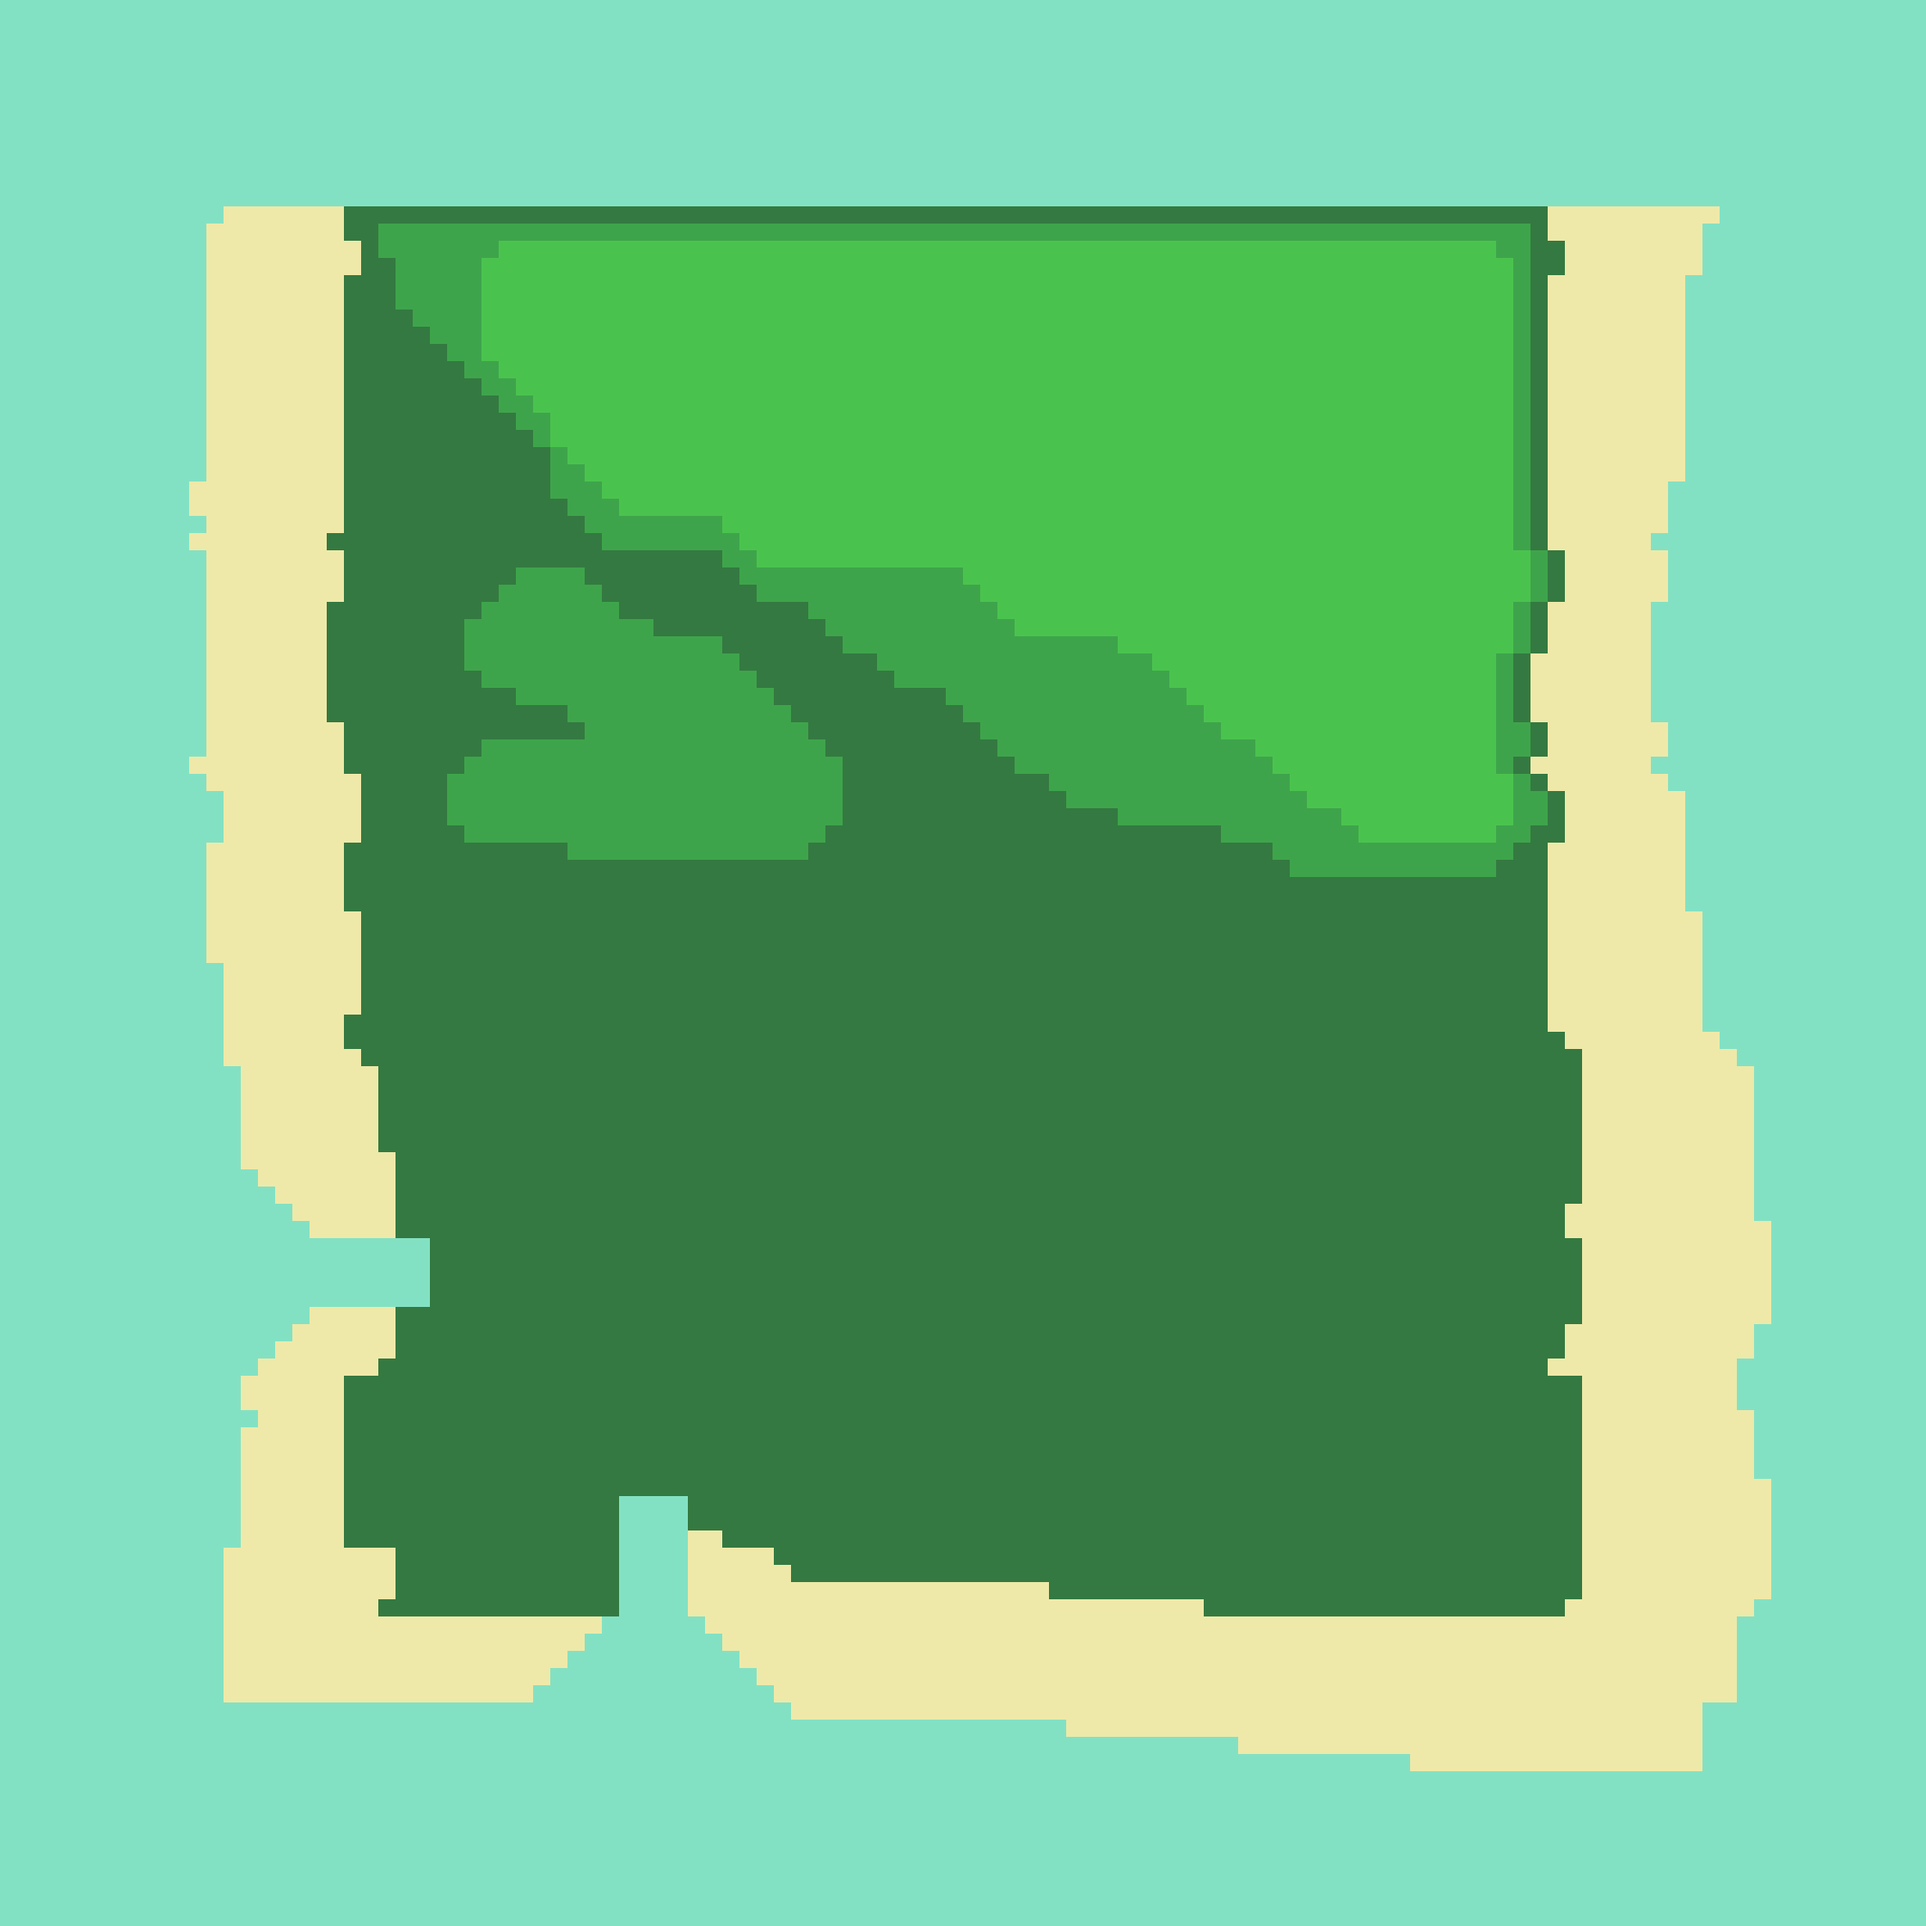
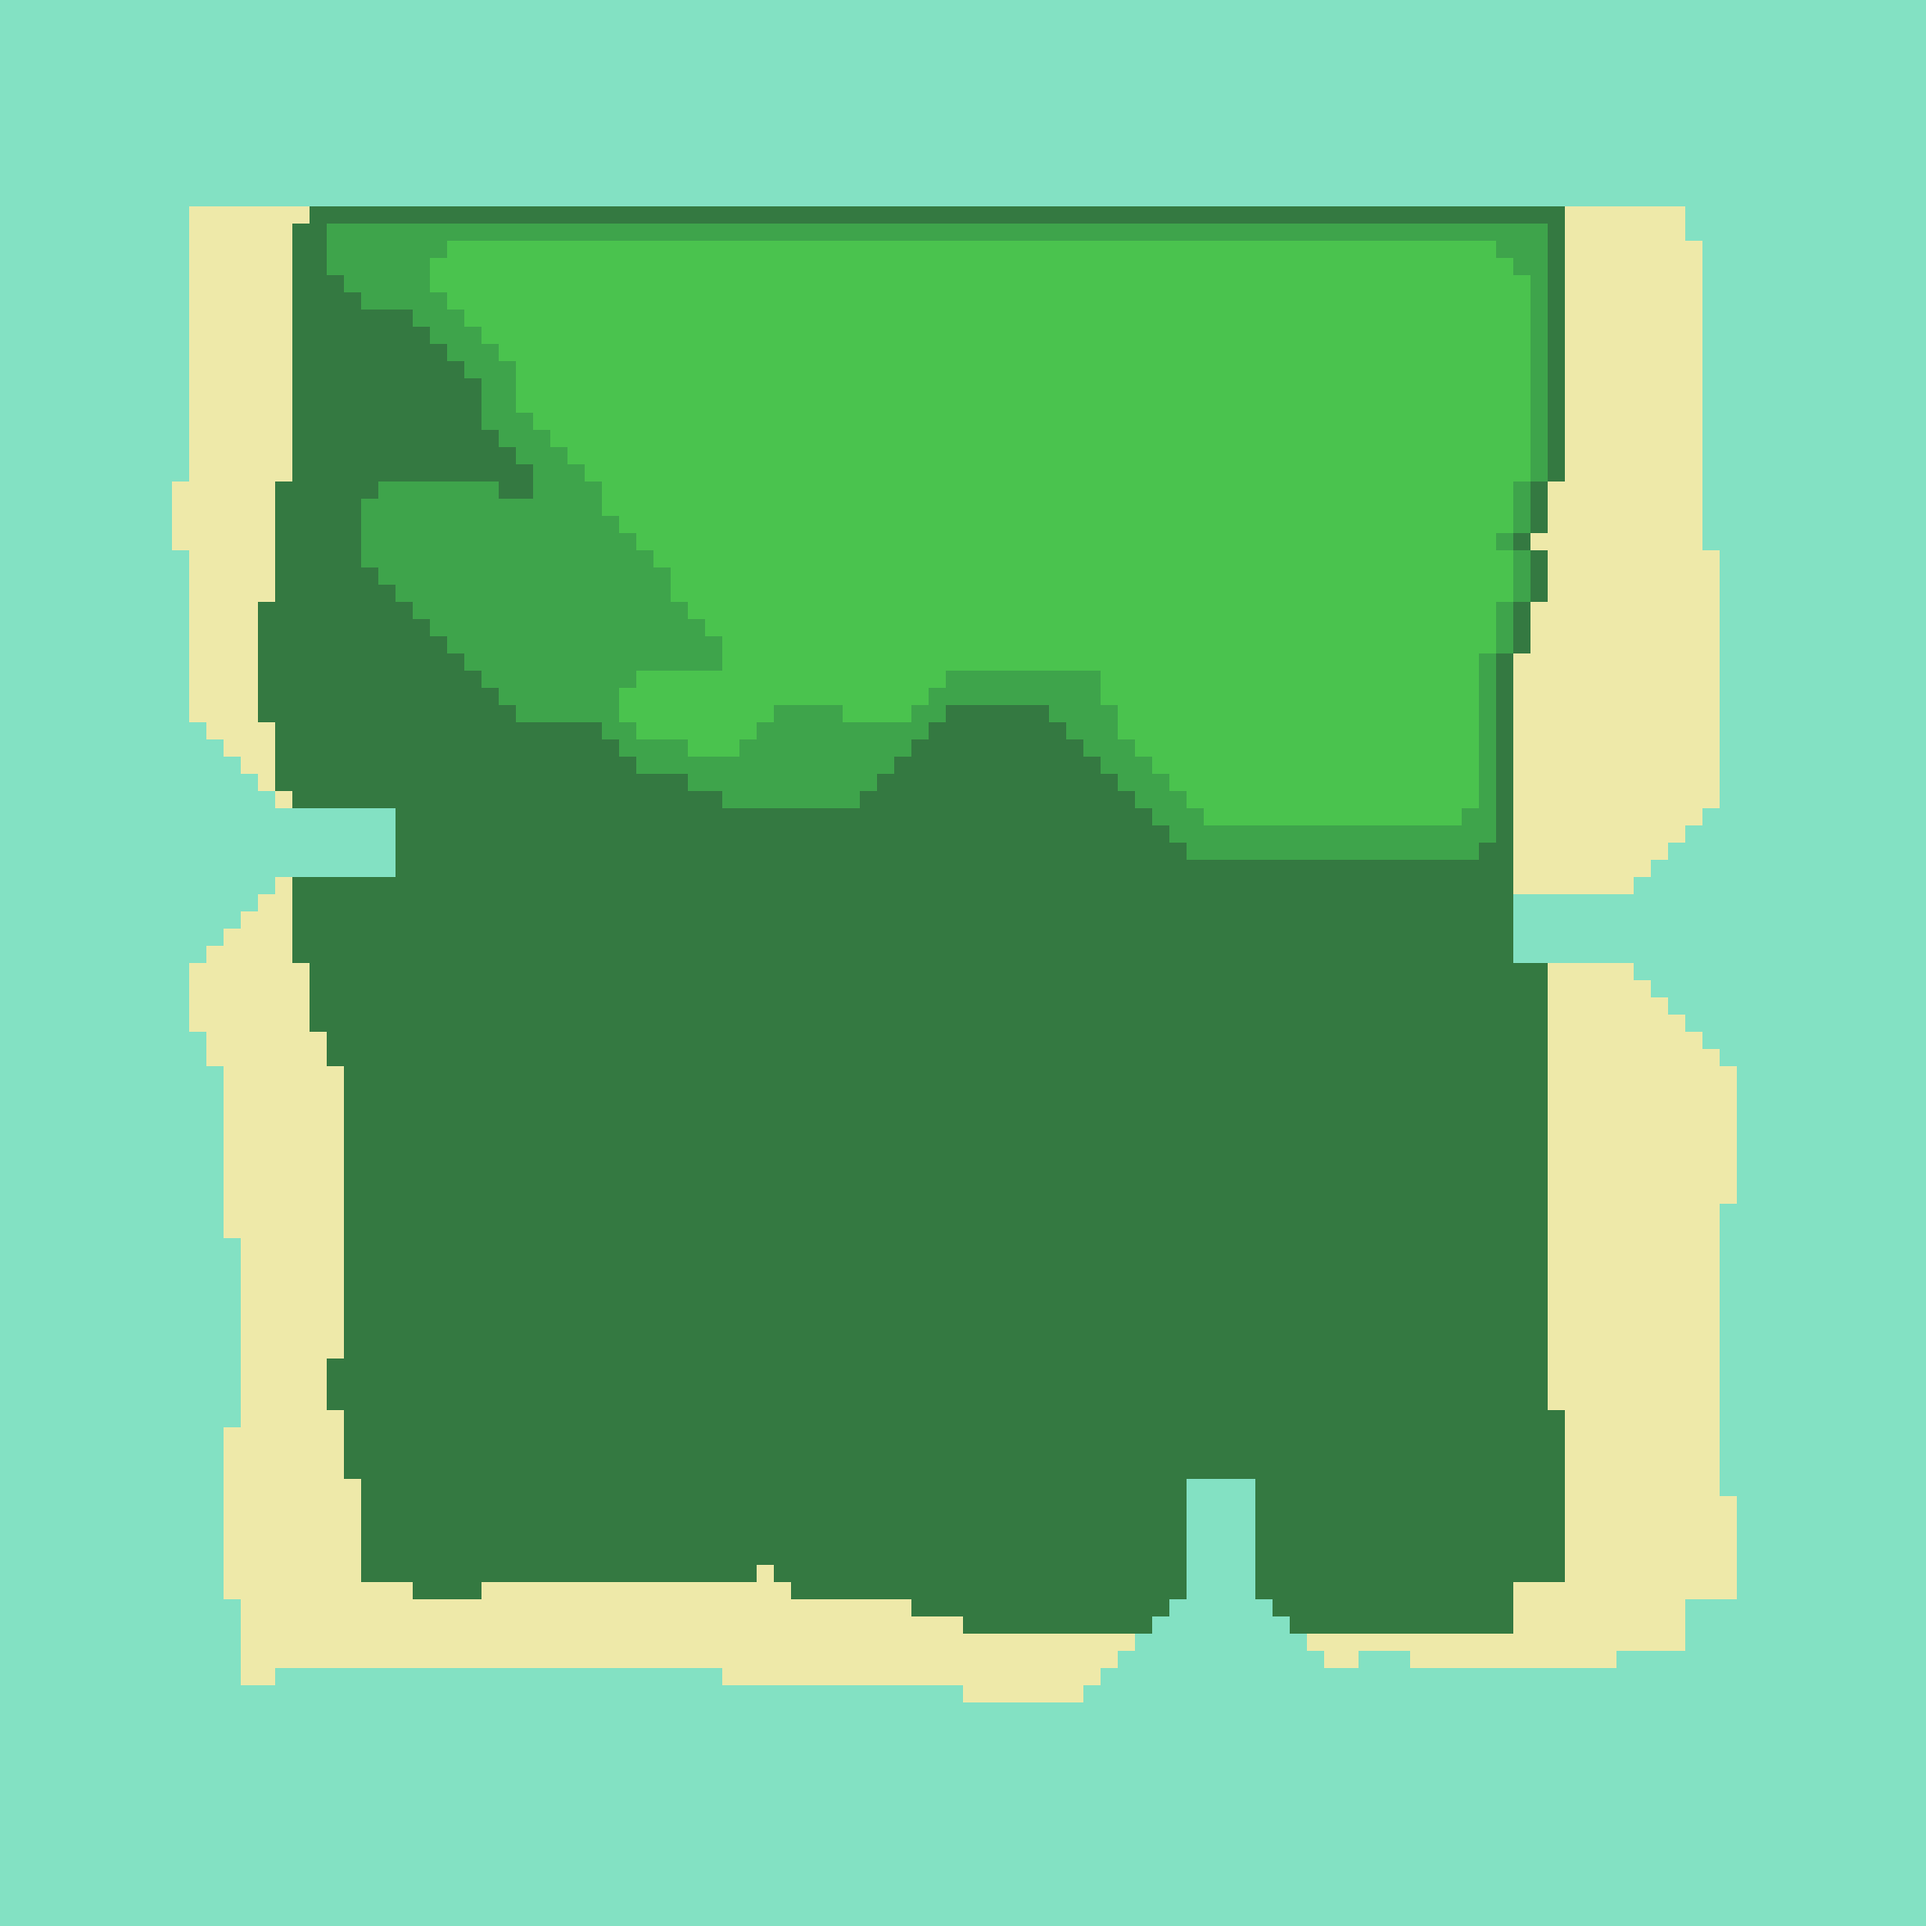
Finished Water mouths random generation

Changed region(s): [[0.0625, 0.0938, 0.9375, 0.9375], [0.8438, 0.0938, 0.9062, 0.4375]]

diff --git a/WaterDrawer.java b/WaterDrawer.java
@@ -19,8 +19,25 @@ public class WaterDrawer {
 		mappy = m;
 	}
 	
-	public TileMap DrawMouthS() {
-		int mouthMiddle = ran.nextInt(mappy.getWidth()/3) + mappy.getWidth()/3;
+	public void DrawMouths() {
+		int mouthMiddle1 = ran.nextInt(mappy.getWidth()/3) + mappy.getWidth()/3;
+		DrawMouthS(mouthMiddle1);
+		
+		int mouth2 = ran.nextInt(3);
+		if(mouth2==0)
+			DrawMouthE();
+		else if(mouth2==1)
+			DrawMouthW();
+		else {
+			int mouthMiddle2 = ran.nextInt(mappy.getWidth()/3) + mappy.getWidth()/3;
+			while(Math.abs(mouthMiddle1 - mouthMiddle2) < mappy.getWidth()/4) {
+				mouthMiddle2 = ran.nextInt(mappy.getWidth()/3) + mappy.getWidth()/3;
+			}
+			DrawMouthS(mouthMiddle2);
+		}
+	}
+	public TileMap DrawMouthS(int mouthMiddle) {
+		//mouthMiddle = ran.nextInt(mappy.getWidth()/3) + mappy.getWidth()/3;
 		// |||X||||
 		int startY = mappy.getHeight()-1;
 		while(!Utility.compareBufferedImages(mappy.getTile(mouthMiddle, startY), sand)) {
@@ -82,9 +99,9 @@ public class WaterDrawer {
 				mappy.setTile(x, y2, water);
 				x--;
 			}
-			System.out.println("y1 = " + y1);
-			System.out.println("y2 = " + y2);
-			System.out.println("x = " + x);
+			//System.out.println("y1 = " + y1);
+			//System.out.println("y2 = " + y2);
+			//System.out.println("x = " + x);
 
 			if(y2-y1 >= 4) { 
 				y1--;
@@ -100,6 +117,48 @@ public class WaterDrawer {
 				y2++;
 			}
 			x = startX + 3 - depth;
+		}
+		
+		return mappy;
+	}
+	
+	public TileMap DrawMouthW() {
+		int mouthMiddle = ran.nextInt(mappy.getHeight()/3) + mappy.getHeight()/3;
+		// |||X||||
+		int startX = mappy.getWidth()-1;
+		while(!Utility.compareBufferedImages(mappy.getTile(startX, mouthMiddle), sand)) {
+			startX--;
+			System.out.println(startX);
+		}
+		int x = startX - 3;
+		int y1 = mouthMiddle;
+		int y2 = mouthMiddle+1;
+		int depth = 0;
+		
+		while(!Utility.compareBufferedImages(mappy.getTile(x, y1), water) || !Utility.compareBufferedImages(mappy.getTile(x, y2), water)) {
+			while(x < mappy.getWidth()) {
+				mappy.setTile(x, y1, water);
+				mappy.setTile(x, y2, water);
+				x++;
+			}
+			//System.out.println("y1 = " + y1);
+			//System.out.println("y2 = " + y2);
+			//System.out.println("x = " + x);
+
+			if(y2-y1 >= 4) { 
+				y1--;
+				y2++;
+				depth++;
+			}
+			else {
+				for(int i = startX - 3; i > startX - 11; i--) {
+					mappy.setTile(i, y1, water);
+					mappy.setTile(i, y2, water);
+				}
+				y1--;
+				y2++;
+			}
+			x = startX - 3 + depth;
 		}
 		
 		return mappy;

diff --git a/Ethan.java b/Ethan.java
@@ -21,11 +21,6 @@ public class Ethan {
 		SandGrass.west(12, 19, 3, 20, mappy, sand); 
 		SandGrass.fill(20, 90, 12, 22, mappy, sand);
 		
-//		SandGrass.south(13, 13, 90, 90, mappy, sand);
-//		SandGrass.east(12, 13, 90, 90, mappy, sand);
-//		SandGrass.west(12, 13, 3, 20, mappy, sand);
-//		SandGrass.fill(20, 90, 12, 20, mappy, sand);
-
 		// ground grass layer
 		BufferedImage groundGrass = Utility.LoadImage("."+ File.separator + File.separator + "Resources" + File.separator + File.separator + "GroundGrass.png");
 		SandGrass.south(24, 88, 85, mappy, groundGrass);
@@ -33,10 +28,6 @@ public class Ethan {
 		SandGrass.west(12, 20, 10, 25, mappy, groundGrass);
 		SandGrass.fill(25, 83, 12, 23, mappy, groundGrass);
 		
-//		SandGrass.south(20, 20, 80, 80, mappy, groundGrass);
-//		SandGrass.east(12, 18, 70, 80, mappy, groundGrass);
-//		SandGrass.west(12, 18, 10, 40, mappy, groundGrass);
-//		SandGrass.fill(40, 70, 12, 30, mappy, groundGrass);
 
 		// Hills Layer 1
 		// 0 Random fill = everything hills
@@ -52,6 +43,7 @@ public class Ethan {
 		WaterDrawer wD = new WaterDrawer(mappy);
 		mappy = wD.DrawMouthS();
 		mappy = wD.DrawMouthE();
+		mappy = wD.DrawMouthW();
 		mappy.saveMap();
 	}
 
